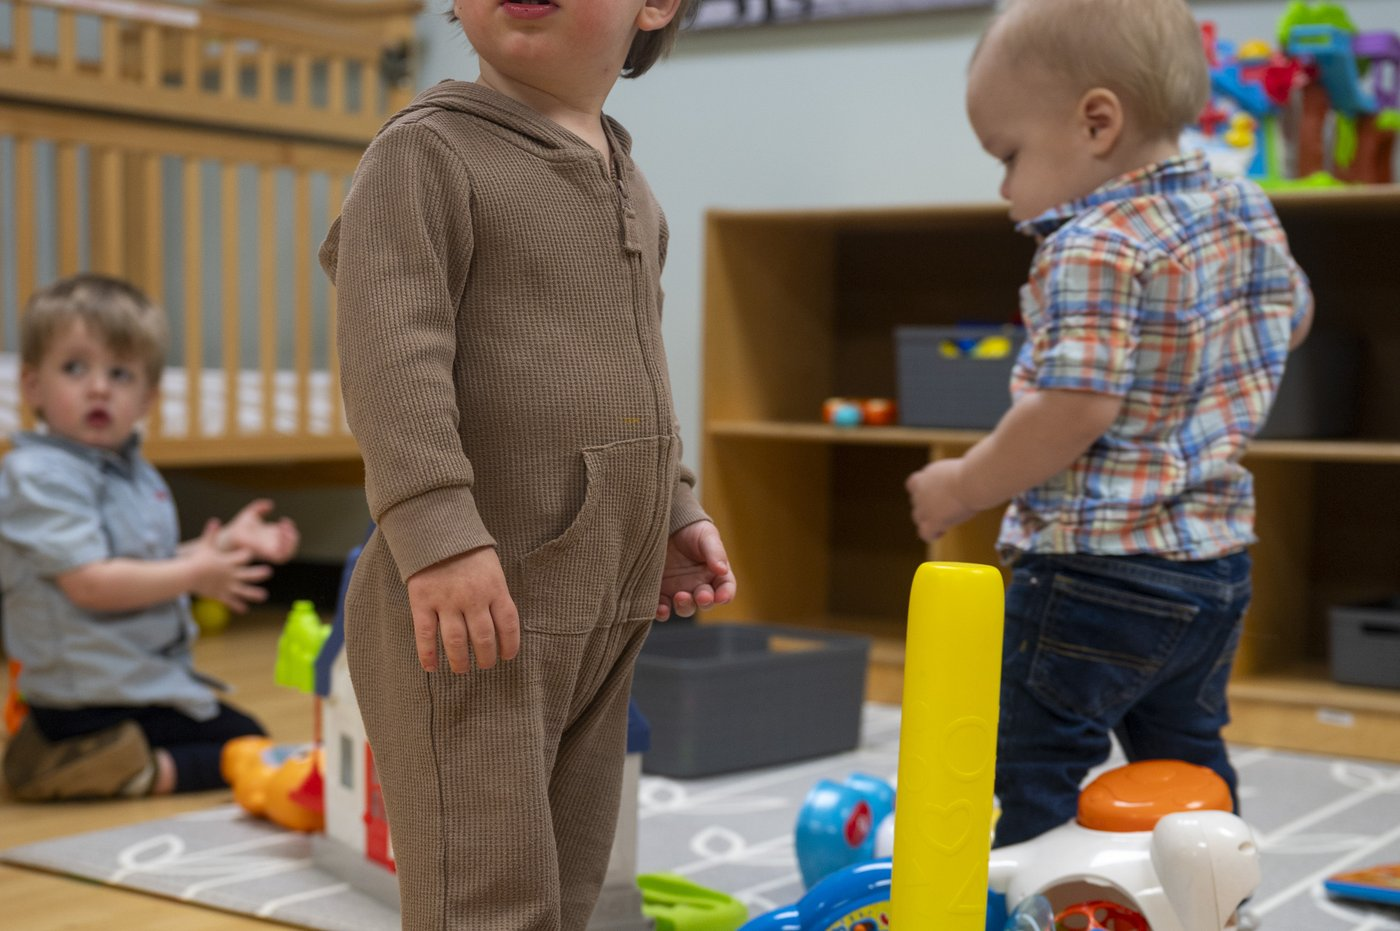
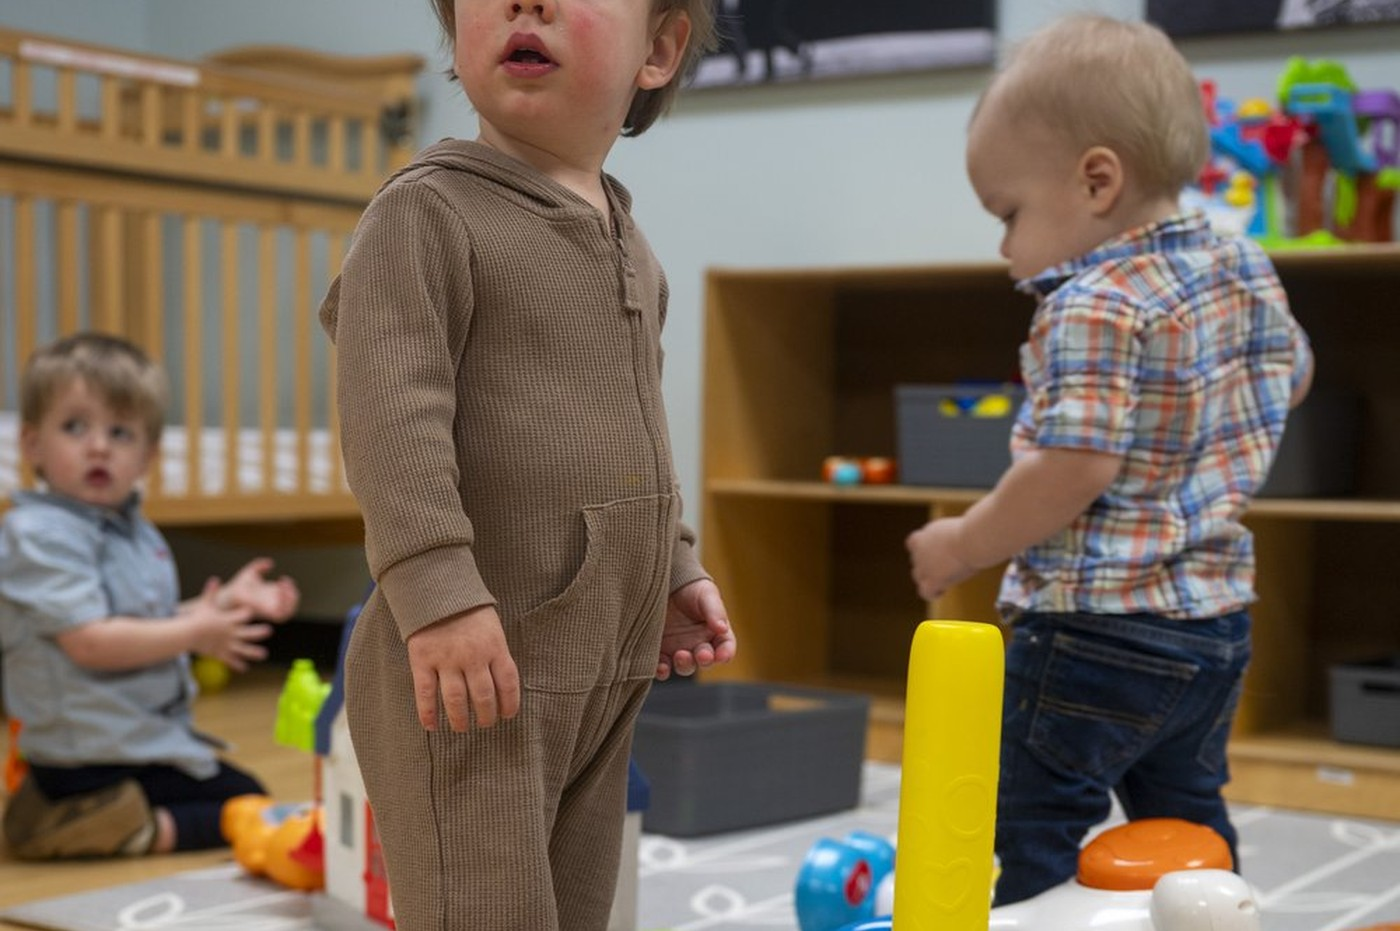
Fix homepage strip crop, drop self-photo, apply new staff title scheme
- kids-toddler-strip.jpg was cutting a toddler off mid-torso; recropped
  from the fuller /visit/kids-toddler.jpg source so both kids are
  properly framed.
- Removed preaching-strip.jpg from the homepage photo strip -- Josiah
  asked for his own pulpit photo to come out.
- Applied the new Pastor/Director/Coordinator title scheme from
  Josiah's "Roles and Title Updates" memo across lib/speakers.ts, and
  added placeholders for Ben Hovies (Ministry Director for Adult
  Discipleship) and Caroline Bell (Girls Student Ministry Coordinator)
  on the staff page -- no photos yet, initials show until he sends them.

Claude-Session: https://claude.ai/code/session_012tzpjegsX4EHrAHYBG3hvf

diff --git a/lib/speakers.ts b/lib/speakers.ts
@@ -37,7 +37,7 @@ export const SPEAKERS: Record<string, SpeakerInfo> = {
     ],
   },
   "Josiah King": {
-    title: "Operations Pastor",
+    title: "Associate Pastor for Operations",
     photo: "king_josiah_operationspastor",
     email: "jking@brainerdbaptist.org",
     familyPhoto: "/carousel/josiah-family.jpg",
@@ -48,18 +48,20 @@ export const SPEAKERS: Record<string, SpeakerInfo> = {
       "Outside of church, Josiah loves spending time with his family, camping, and coffee—especially finding local coffee roasters wherever he travels, whether across town or across the world. He has also been known to weigh his coffee beans while weighing the decisions of the day. He is often accused of overthinking and asking a few (or several) more questions than necessary, especially when it comes to the details. He would probably tell you that the details matter. His family might tell you that he occasionally has a hard time letting them go.",
     ],
   },
-  "Paul Christensen":  { title: "Students Pastor",        photo: "christensen_paul_studentspastor",      email: "pchristensen@brainerdbaptist.org" },
-  "Micah Frink":       { title: "Young Adults Pastor",    photo: "frink_micah_youngadultspastor",        email: "mfrink@brainerdbaptist.org" },
-  "Abigail Frink":     { title: "Worship Director",       photo: "frink_abigail_worshipdirector",        email: "afrink@brainerdbaptist.org" },
+  "Paul Christensen":  { title: "Associate Pastor for Students",          photo: "christensen_paul_studentspastor",      email: "pchristensen@brainerdbaptist.org" },
+  "Micah Frink":       { title: "Associate Pastor for Young Adults",      photo: "frink_micah_youngadultspastor",        email: "mfrink@brainerdbaptist.org" },
+  "Abigail Frink":     { title: "Ministry Director for Worship",         photo: "frink_abigail_worshipdirector",        email: "afrink@brainerdbaptist.org" },
   "Bryan Skinner":     { title: "Worship Pastor",         photo: "skinner_bryan_worshippastor",          email: "bskinner@brainerdbaptist.org" },
-  "Ethan Speicher":    { title: "Member Care Director",   photo: "speicher_ethan_membercaredirector",    email: "espeicher@brainerdbaptist.org" },
-  "Barry Wilks":       { title: "Missions Pastor",        photo: "wilks_barry_missionspastor",           email: "bwilks@brainerdbaptist.org" },
-  "Carlos Betancourt": { title: "Hispanic Church Pastor", photo: "betancourt_carlos_hispanicpastor",     email: "cbetancourt@brainerdbaptist.org" },
-  "Chris Williams":    { title: "Facilities Director",    photo: "williams_chris_facilitiesdirector",    email: "cwilliams@brainerdbaptist.org" },
-  "Michelle Hill":     { title: "Stewardship Director",   photo: "hill_michelle_stewardshipdirector",    email: "mhill@brainerdbaptist.org" },
-  "Jo Bobbitt":        { title: "BX Director",            photo: "bobbitt_jo_bxdirector",               email: "jbobbitt@brainerdbaptist.org" },
-  "Brittany Kelly":    { title: "Kids Director",          photo: "kelly_brittany_kidsdirector",          email: "bkelly@brainerdbaptist.org" },
-  "Kristi Smith":      { title: "PDO Director",           photo: "smith_kristi_pdodirector",             email: "ksmith@brainerdbaptist.org" },
+  "Ethan Speicher":    { title: "Ministry Director for Member Care",     photo: "speicher_ethan_membercaredirector",    email: "espeicher@brainerdbaptist.org" },
+  "Barry Wilks":       { title: "Associate Pastor for Missions",         photo: "wilks_barry_missionspastor",           email: "bwilks@brainerdbaptist.org" },
+  "Carlos Betancourt": { title: "Assistant Pastor for Hispanic Ministry", photo: "betancourt_carlos_hispanicpastor",     email: "cbetancourt@brainerdbaptist.org" },
+  "Chris Williams":    { title: "Ministry Director for Facilities",      photo: "williams_chris_facilitiesdirector",    email: "cwilliams@brainerdbaptist.org" },
+  "Michelle Hill":     { title: "Ministry Director for Stewardship",     photo: "hill_michelle_stewardshipdirector",    email: "mhill@brainerdbaptist.org" },
+  "Jo Bobbitt":        { title: "Ministry Director for the BX",          photo: "bobbitt_jo_bxdirector",               email: "jbobbitt@brainerdbaptist.org" },
+  "Brittany Kelly":    { title: "Ministry Director for Kids",            photo: "kelly_brittany_kidsdirector",          email: "bkelly@brainerdbaptist.org" },
+  "Kristi Smith":      { title: "Ministry Coordinator for Kids",         photo: "smith_kristi_pdodirector",             email: "ksmith@brainerdbaptist.org" },
+  "Benjamin Hovies":   { title: "Ministry Director for Adult Discipleship" },
+  "Caroline Bell":     { title: "Girls Student Ministry Coordinator" },
   // Guest speakers — no photo
   "Jackson Bowman":    { title: "Guest Speaker" },
 }
@@ -85,4 +87,6 @@ export const STAFF_ROSTER: string[] = [
   "Jo Bobbitt",
   "Kristi Smith",
   "Chris Williams",
+  "Benjamin Hovies",
+  "Caroline Bell",
 ]

diff --git a/components/home/PhotoStrip.tsx b/components/home/PhotoStrip.tsx
@@ -21,7 +21,6 @@ const PHOTOS = [
   { src: "/carousel/women-speaker.jpg",         w: 1400, h:  931, alt: "A woman speaking at a Brainerd Baptist women's ministry gathering" },
   { src: "/carousel/adults-study-strip.jpg",    w: 1400, h:  931, alt: "Adults in small group Bible study" },
   { src: "/carousel/men-intergen.jpg",          w: 1400, h:  931, alt: "Men of different generations at a Brainerd Baptist men's ministry event" },
-  { src: "/carousel/preaching-strip.jpg",       w: 1400, h:  787, alt: "Teaching from Scripture at Brainerd Baptist" },
   { src: "/carousel/women-laughing.jpg",        w: 1400, h:  931, alt: "Women laughing together at a Brainerd Baptist women's ministry gathering" },
   { src: "/carousel/worship-team-strip.jpg",    w: 1400, h:  931, alt: "The worship team leading Sunday morning at Brainerd Baptist" },
   { src: "/carousel/kids-toddler-strip.jpg",    w: 1400, h:  931, alt: "Toddlers playing together in the Brainerd Baptist nursery" },
